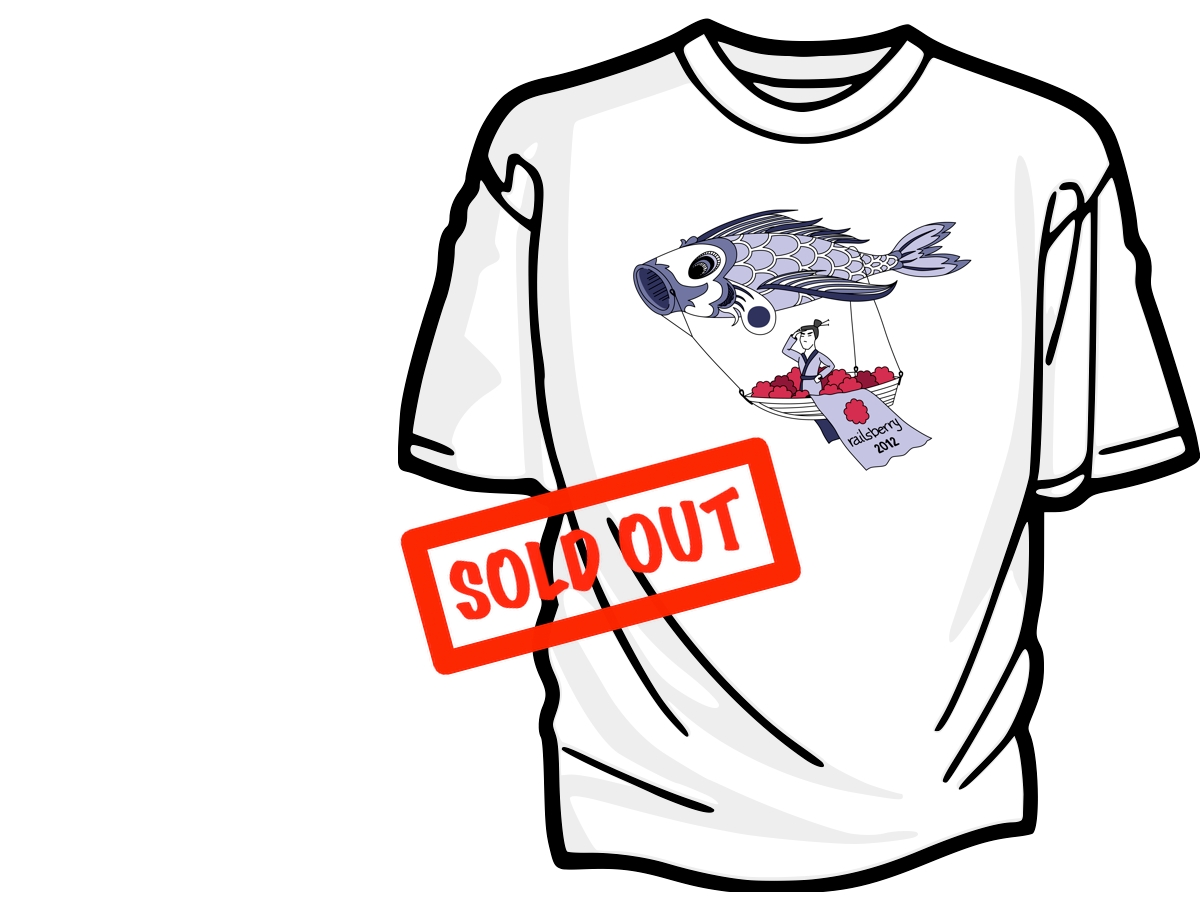
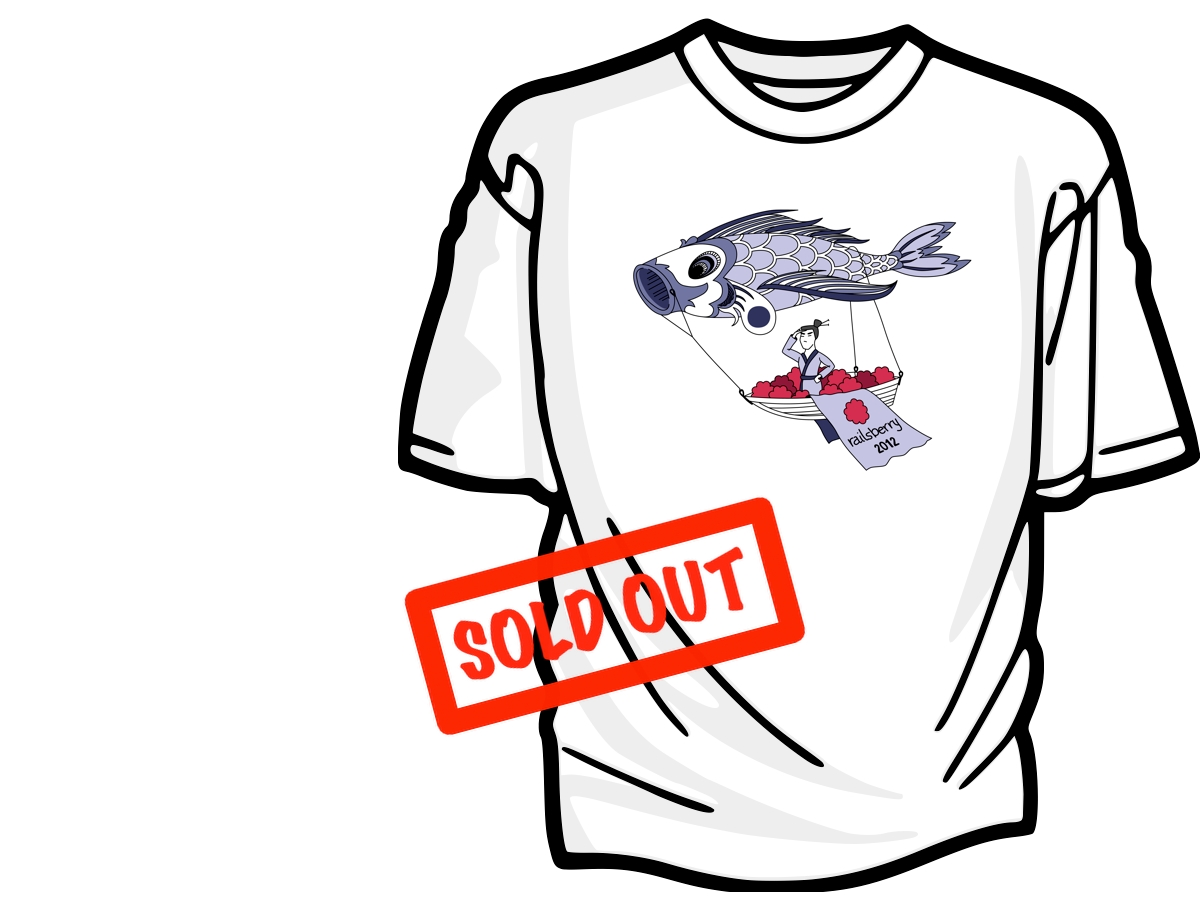
changed copy

Changed region(s): [[0.3083, 0.4667, 0.6783, 0.84]]

diff --git a/public/index.html b/public/index.html
@@ -12,6 +12,13 @@
 
 <link href='http://fonts.googleapis.com/css?family=Arimo|Delius' rel='stylesheet' type='text/css'>
 <style type="text/css">
+  body {
+    background: url(http://files.n3rdshirt.com/shirt_001.jpg) no-repeat;
+    font-family: 'Arimo', sans-serif;
+    font-size: 16;
+    width: 310;
+    margin: 20;
+  }
   h1 {
     font-family: 'Delius', cursive;
     font-size: 48;
@@ -19,13 +26,6 @@
   h2 {
     font-family: 'Delius', cursive;
     font-size: 24;
-  }
-  body {
-    background: url(http://files.n3rdshirt.com/shirt_001.jpg) no-repeat;
-    font-family: 'Arimo', sans-serif;
-    font-size: 16;
-    width: 310;
-    margin: 20;
   }
   a:link {
     color: #E3196A;
@@ -76,8 +76,8 @@
 </p>
 
 <p>
-  Limited edition of 45 t-shirts &mdash; order now!
-  The shirts will be <b>personally delivered</b> by <a href="http://tim.lossen.de">Tim</a>
+  Limited edition of 45 t-shirts &mdash; sold out!
+  The shirts were <b>personally delivered</b> by <a href="http://tim.lossen.de">Tim</a>
   at Railsberry in Krakow.
 </p>
 
